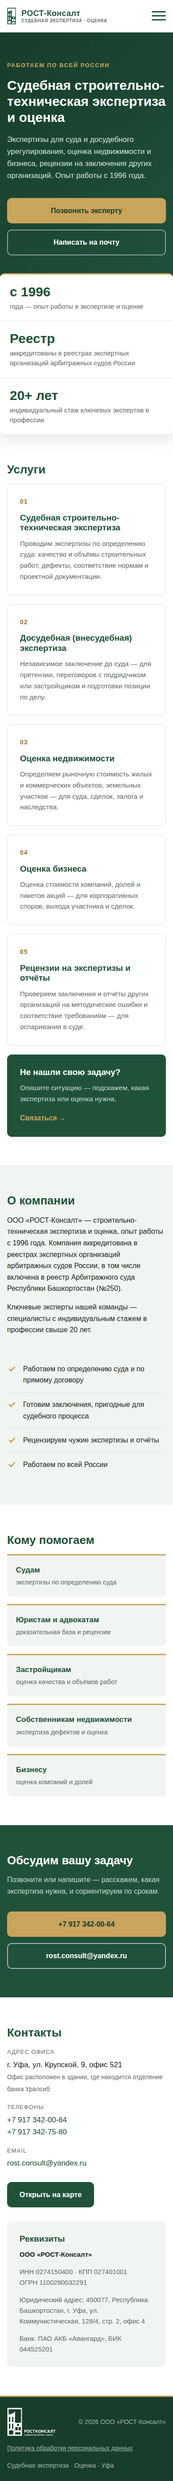
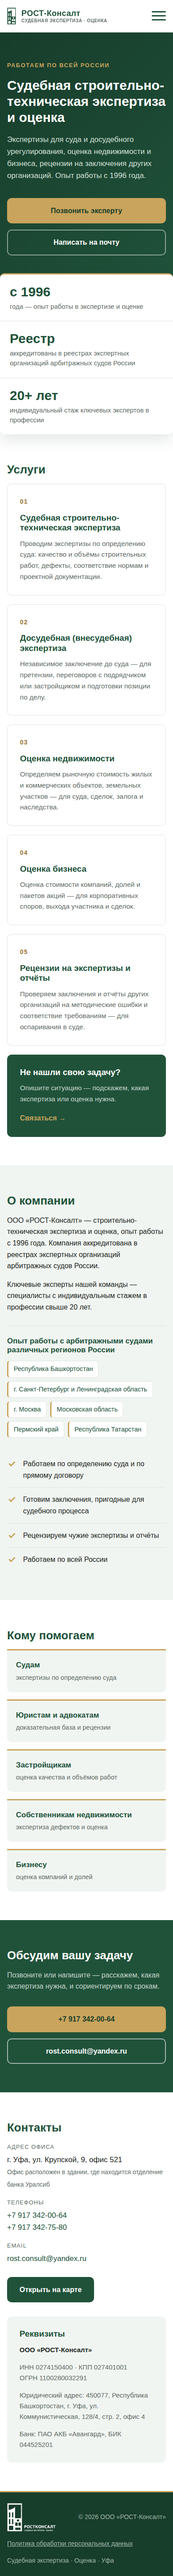
О компании: опыт работы с арбитражными судами регионов России
Добавлен список регионов, убрана фраза про реестр АС РБ №250.

Claude-Session: https://claude.ai/code/session_014kz7abNveV5Q39hqwxJt4z

Changed region(s): [[0.0, 0.0, 1.0, 0.9986]]

diff --git a/index.html b/index.html
@@ -111,8 +111,19 @@
       <div class="container about">
         <div>
           <h2>О компании</h2>
-          <p>ООО «РОСТ-Консалт» — строительно-техническая экспертиза и оценка, опыт работы с 1996 года. Компания аккредитована в реестрах экспертных организаций арбитражных судов России, в том числе включена в реестр Арбитражного суда Республики Башкортостан (№250).</p>
+          <p>ООО «РОСТ-Консалт» — строительно-техническая экспертиза и оценка, опыт работы с 1996 года. Компания аккредитована в реестрах экспертных организаций арбитражных судов России.</p>
           <p>Ключевые эксперты нашей команды — специалисты с индивидуальным стажем в профессии свыше 20 лет.</p>
+          <div class="regions">
+            <h3 class="regions__title">Опыт работы с арбитражными судами различных регионов России</h3>
+            <ul class="regions__list">
+              <li>Республика Башкортостан</li>
+              <li>г. Санкт-Петербург и Ленинградская область</li>
+              <li>г. Москва</li>
+              <li>Московская область</li>
+              <li>Пермский край</li>
+              <li>Республика Татарстан</li>
+            </ul>
+          </div>
         </div>
         <ul class="checklist">
           <li>Работаем по определению суда и по прямому договору</li>

diff --git a/styles.css b/styles.css
@@ -344,3 +344,18 @@ p { margin: 0 0 1em; }
 .policy li { margin-bottom: 6px; }
 .policy__meta { color: var(--muted); font-size: 15px; }
 .policy__back { display: inline-block; margin-top: 32px; }
+
+/* ---------- Регионы (О компании) ---------- */
+.regions { margin-top: 28px; padding-top: 24px; border-top: 1px solid var(--line); }
+.regions__title { font-size: 17px; margin-bottom: 14px; }
+.regions__list { list-style: none; margin: 0; padding: 0; display: flex; flex-wrap: wrap; gap: 8px; }
+.regions__list li {
+  background: #fff;
+  border: 1px solid var(--line);
+  border-left: 3px solid var(--gold);
+  border-radius: 6px;
+  padding: 6px 12px;
+  font-size: 14.5px;
+  font-weight: 500;
+  color: var(--green);
+}
